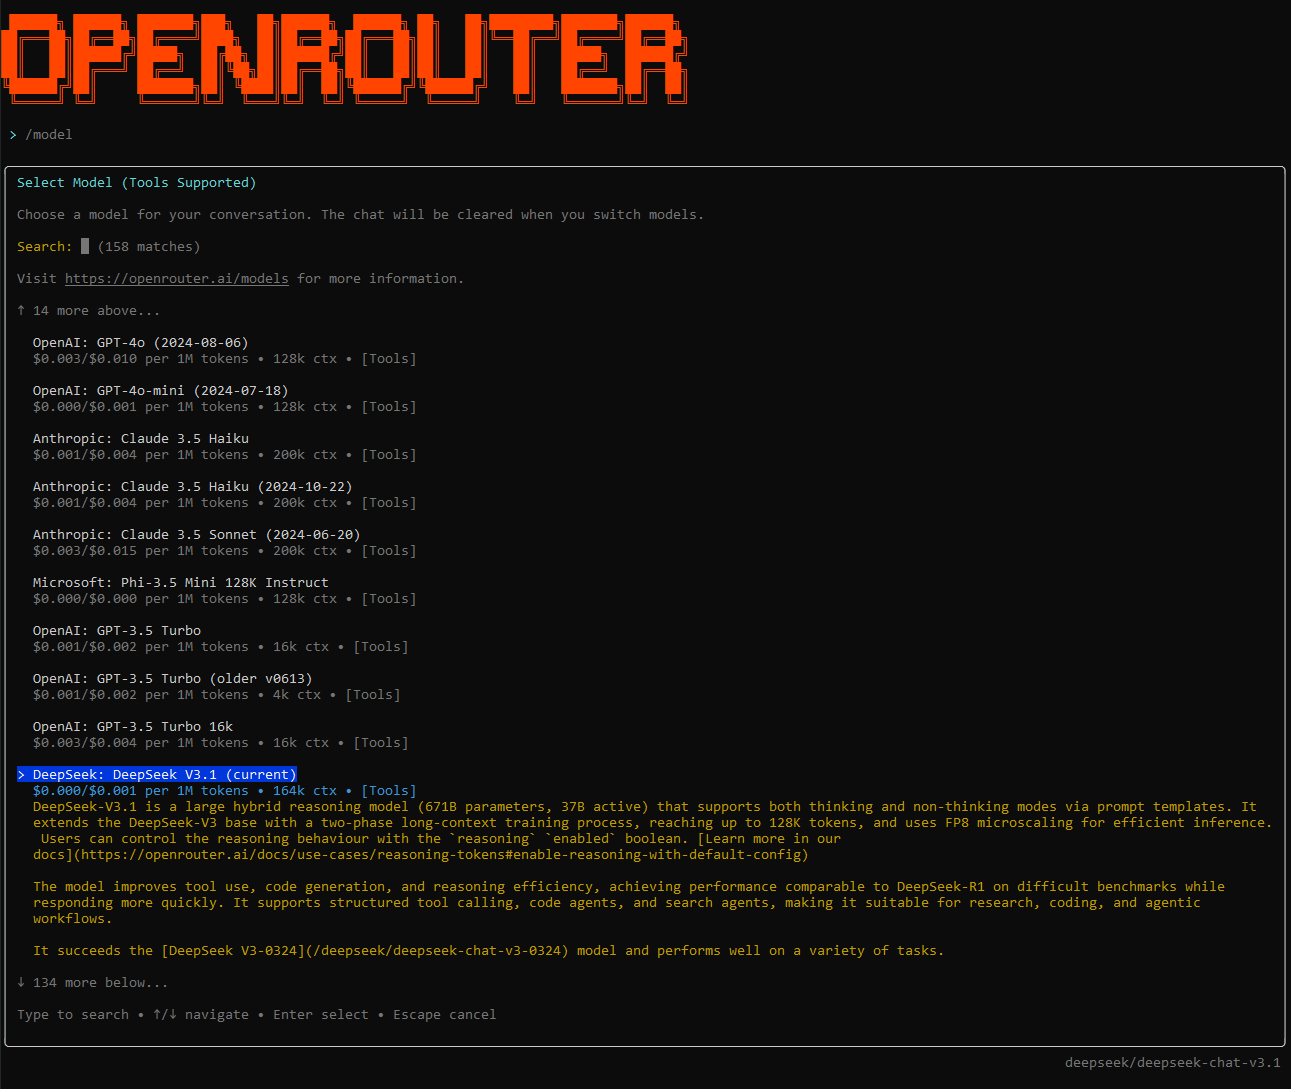
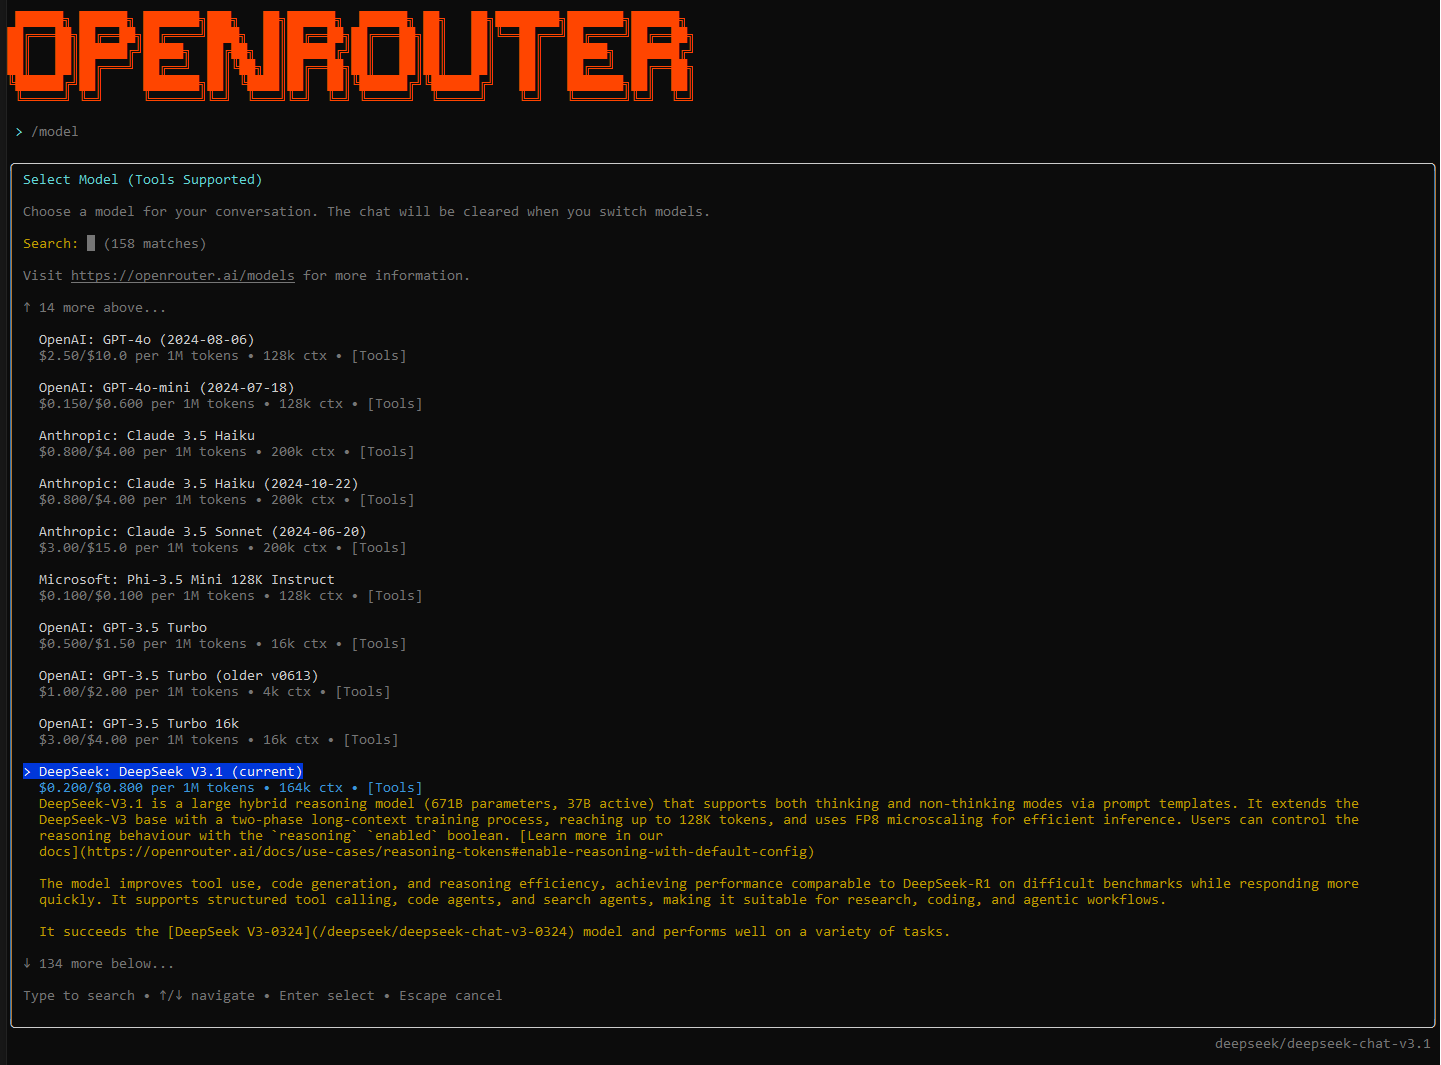
fixed price per token ui issue

Changed region(s): [[0.0, 0.0, 0.9605, 0.9606], [0.8056, 0.1239, 1.0, 0.9915]]

diff --git a/src/utils/openrouter-models.ts b/src/utils/openrouter-models.ts
@@ -287,8 +287,8 @@ export function formatModelForDisplay(model: OpenRouterModel): string {
 export function formatModelCostInfo(model: OpenRouterModel): string {
 	if (!model.pricing) return '';
 
-	const promptCost = parseFloat(model.pricing.prompt) * 1000; // Convert from per 1K to per 1M
-	const completionCost = parseFloat(model.pricing.completion) * 1000; // Convert from per 1K to per 1M
+	const promptCost = parseFloat(model.pricing.prompt) * 1000 * 1000; // Convert from per 1K to per 1M
+	const completionCost = parseFloat(model.pricing.completion) * 1000 * 1000; // Convert from per 1K to per 1M
 
 	// Format costs with appropriate precision for per million pricing
 	const formatCost = (cost: number): string => {
